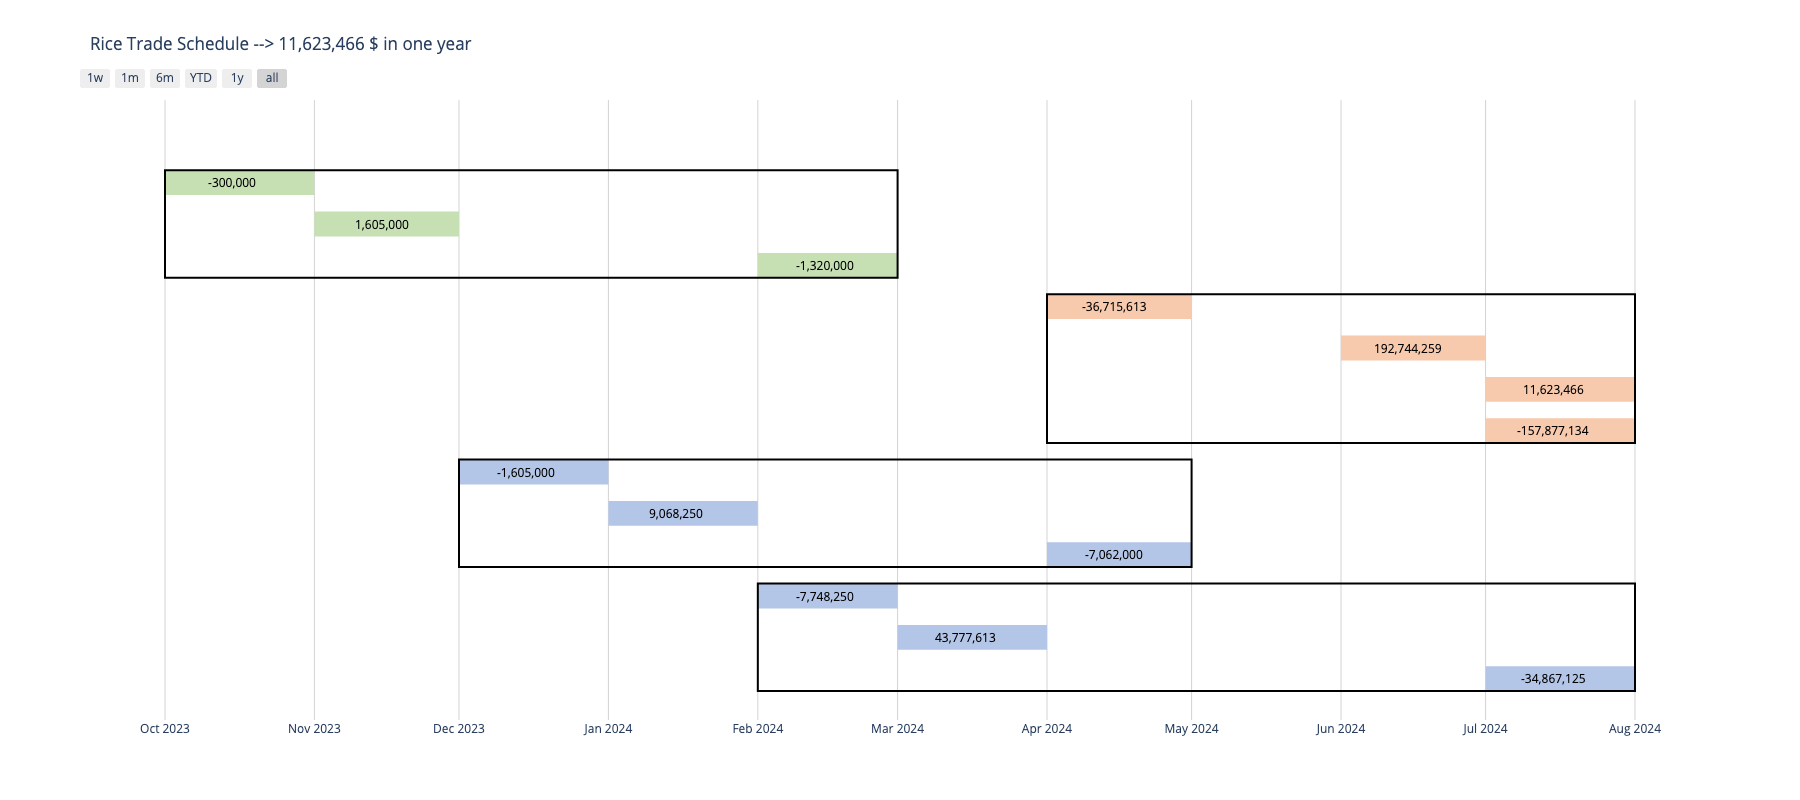
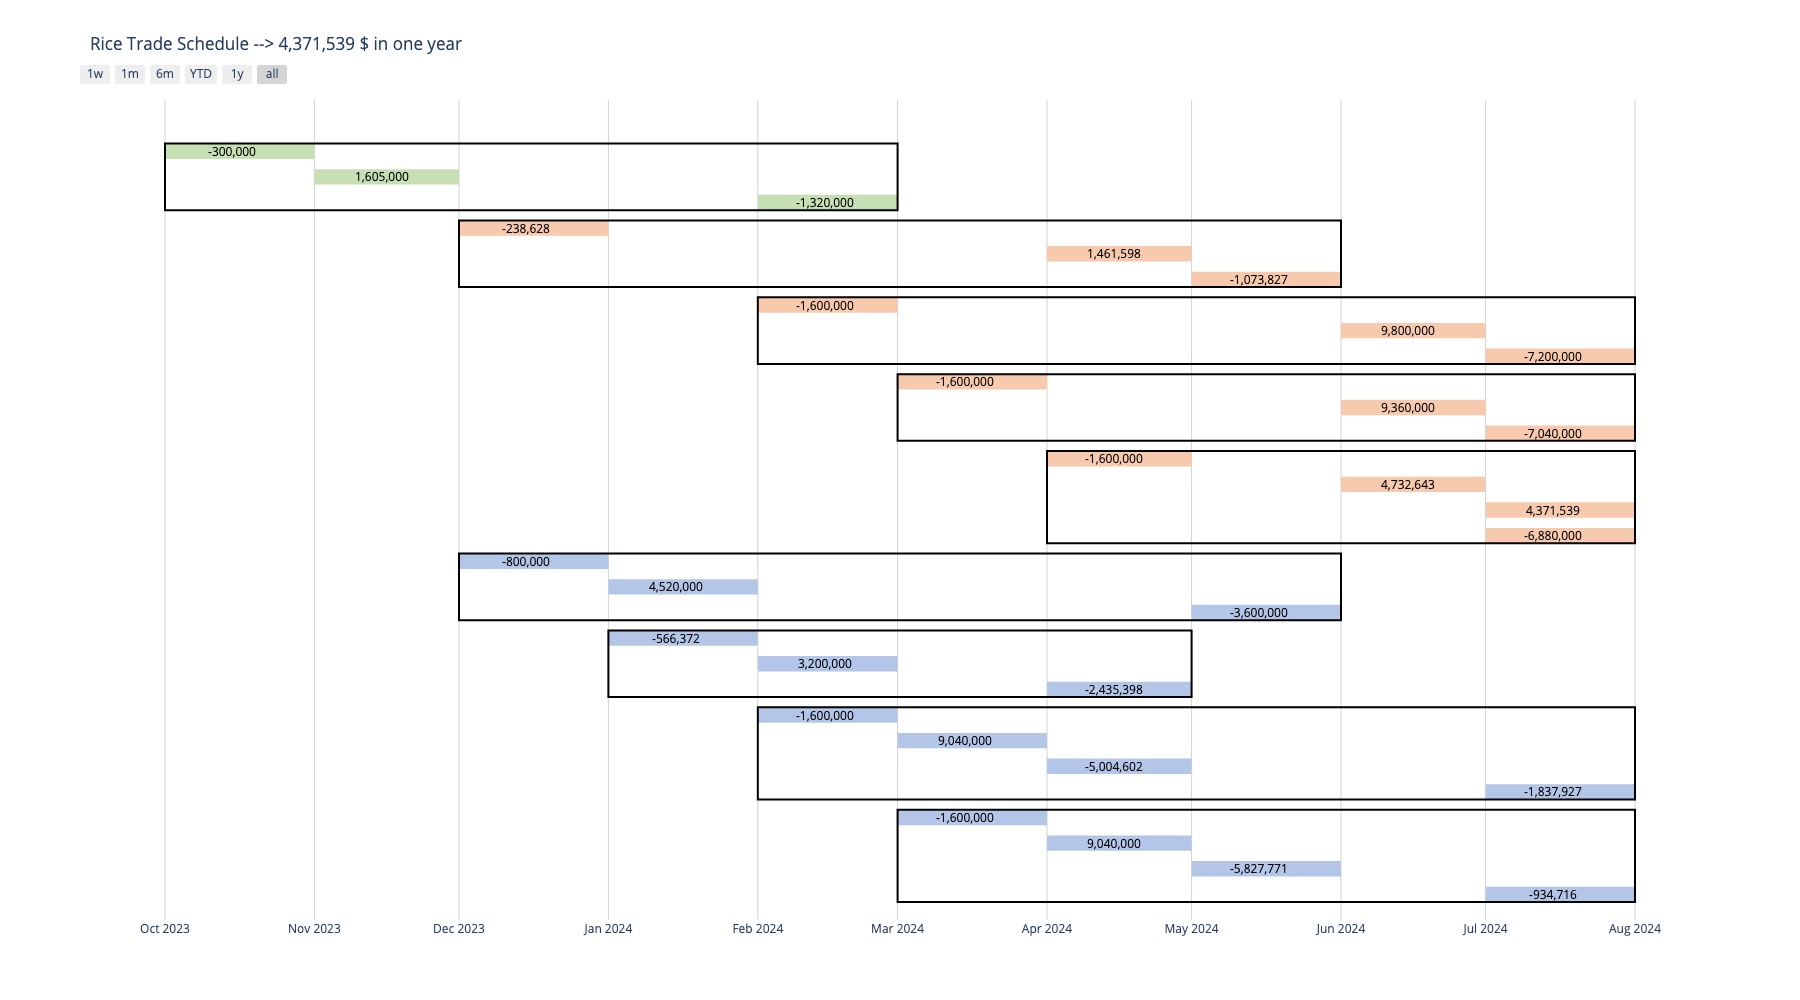
add demand constraint

diff --git a/main.py b/main.py
@@ -8,7 +8,7 @@ warnings.filterwarnings("ignore")
 
 def generate_trade_schedule():
 
-    def get_valid_number(prompt="Please enter your initial investment: "):
+    def get_valid_number(prompt):
         while True:
             try:
                 user_input = int(input(prompt))
@@ -16,7 +16,8 @@ def generate_trade_schedule():
             except ValueError:
                 print("That's not a valid number! Please try again. \n")
 
-    init_investment = get_valid_number()
+    init_investment = get_valid_number("Please enter your initial investment: ")
+    rice_demand = get_valid_number("Please enter the maximum demand: ")
 
     # Decisions Variables
     # Continuous Variables
@@ -97,6 +98,8 @@ def generate_trade_schedule():
         maxProfit += lpSum([rice_vars_dict[r]['buy'][month] for month in rice_vars_dict[r]['buy']]) == -rice_vars_dict[
             f"price_{r}"] * deposit_perc
 
+        maxProfit += rice_vars_dict[f"price_{r}"] <= rice_demand
+
         if r.startswith("super"):
             maxProfit += lpSum([rice_vars_dict[r]['sell'][month] for month in rice_vars_dict[r]['sell']]) == \
                          rice_vars_dict[
@@ -175,7 +178,7 @@ def generate_trade_schedule():
                           group_tasks=False,
                           bar_width=BAR_WIDTH)
     fig['layout']['annotations'] = annotations
-    fig.update_layout(yaxis=dict(showticklabels=False), width=1800, height=800,
+    fig.update_layout(yaxis=dict(showticklabels=False), width=1800, height=1000,
                       title=f'Rice Trade Schedule --> {"{:,.0f}".format(pulp.value(maxProfit.objective))} $ in one year')
 
     for i, row in shape_df.iterrows():

diff --git a/optimizer_adv.py b/optimizer_adv.py
@@ -21,6 +21,7 @@ rice_types = {
               'sell': ['oct', 'nov']}
 }
 
+rice_demand = 6500000
 deposit_perc = 0.2
 init_investment = 300000
 super_profit = 1.13
@@ -84,6 +85,8 @@ for r in rices:
 
     maxProfit += lpSum([rice_vars_dict[r]['buy'][month] for month in rice_vars_dict[r]['buy']]) == -rice_vars_dict[
         f"price_{r}"] * deposit_perc
+
+    maxProfit += rice_vars_dict[f"price_{r}"] <= rice_demand
 
     if r.startswith("super"):
         maxProfit += lpSum([rice_vars_dict[r]['sell'][month] for month in rice_vars_dict[r]['sell']]) == rice_vars_dict[
@@ -162,7 +165,7 @@ fig = ff.create_gantt(results_df, index_col='Task', colors=colors,
                       group_tasks=False,
                       bar_width=BAR_WIDTH)
 fig['layout']['annotations'] = annotations
-fig.update_layout(yaxis=dict(showticklabels=False), width=1800, height=800, title=f'Rice Trade Schedule --> {"{:,.0f}".format(pulp.value(maxProfit.objective))} $ in one year')
+fig.update_layout(yaxis=dict(showticklabels=False), width=1800, height=1000, title=f'Rice Trade Schedule --> {"{:,.0f}".format(pulp.value(maxProfit.objective))} $ in one year')
 
 for i,row in shape_df.iterrows():
     fig.add_shape(type='rect',

diff --git a/README.md b/README.md
@@ -35,6 +35,7 @@ The automated visualization component translates the model's output into a clear
 
 ![](riceScheduler.png)
 
+
 ## How It Works
 
 The scheduler uses Linear Programming (LP) to maximize profits while adhering to the constraints of trade schedules and initial investments. It includes the following key components:
